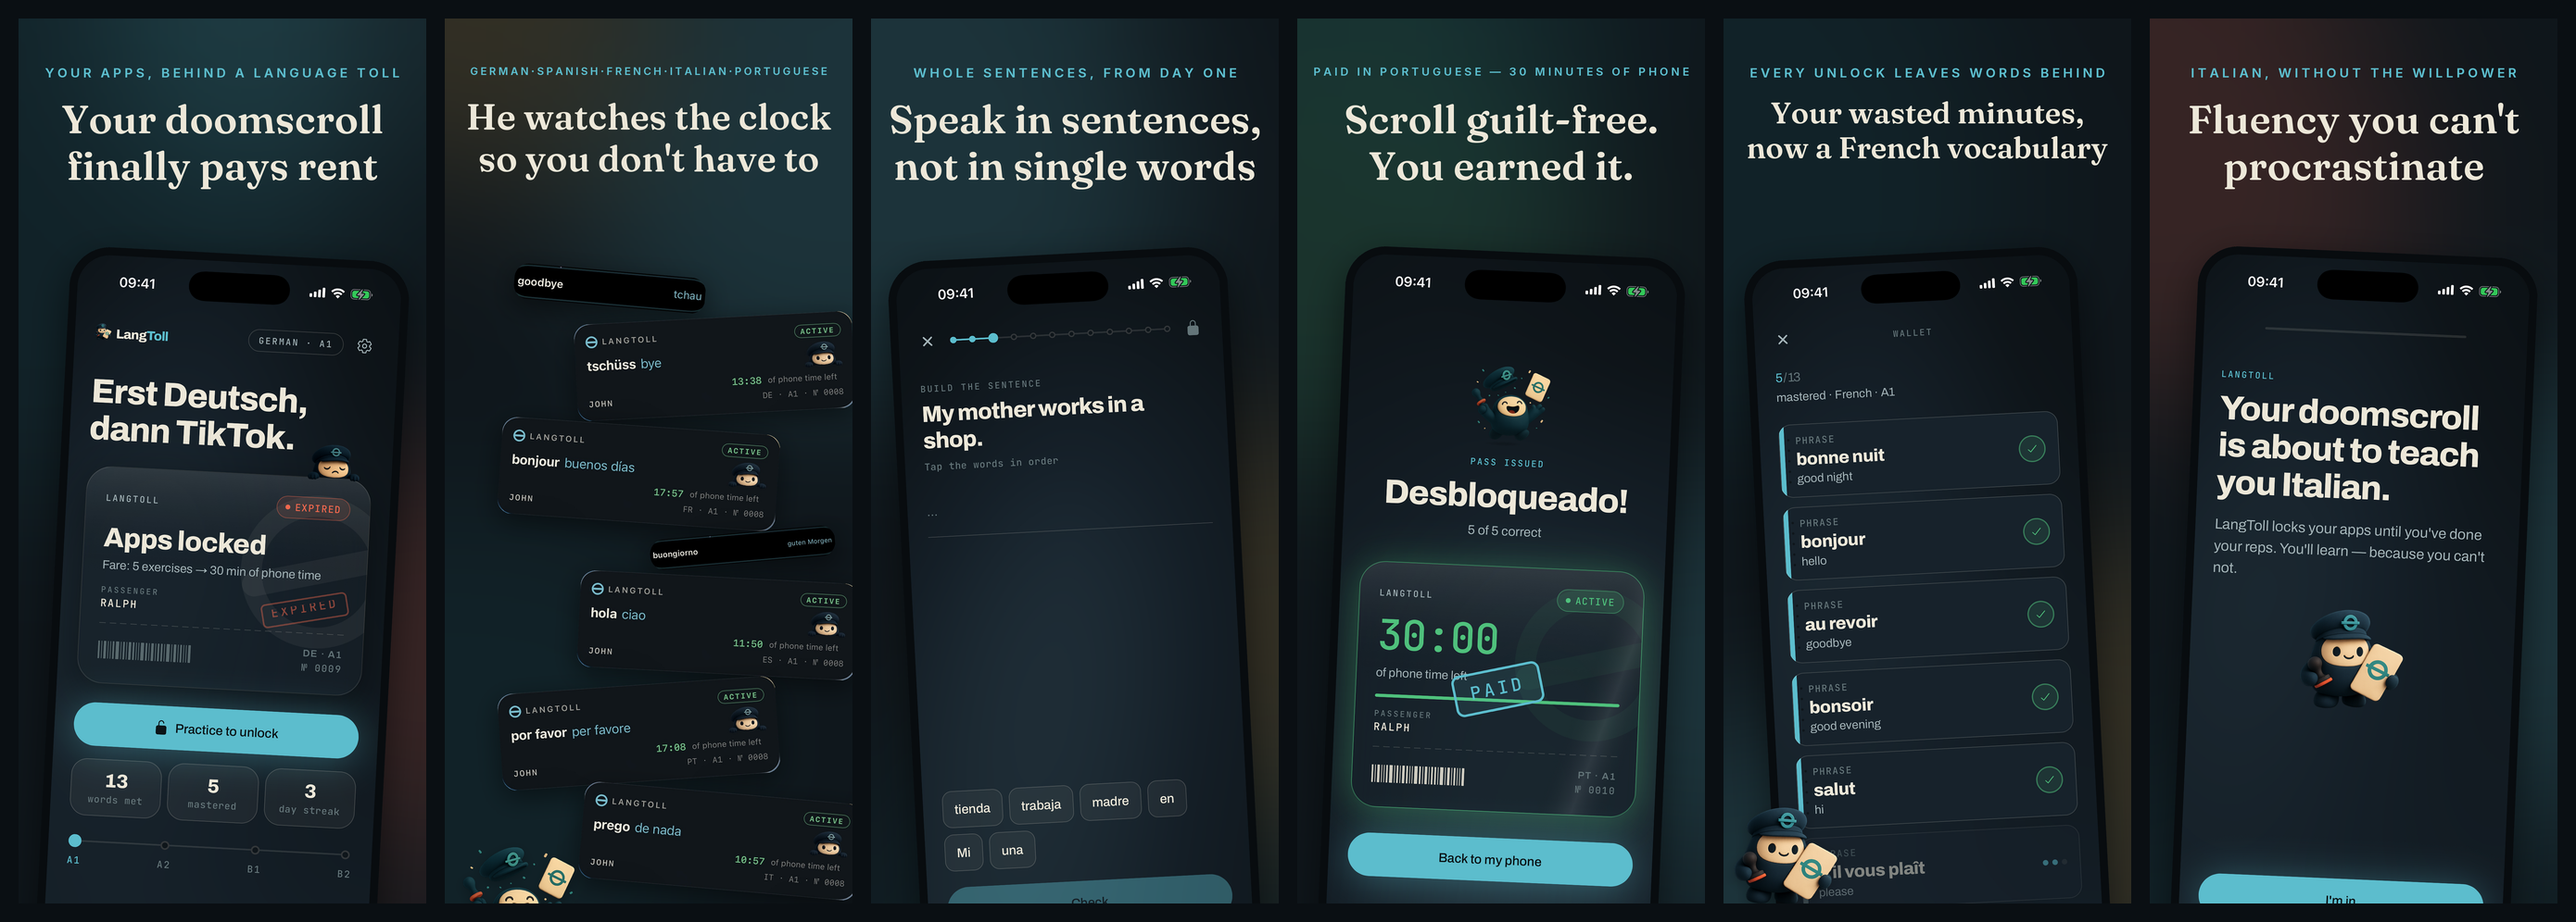
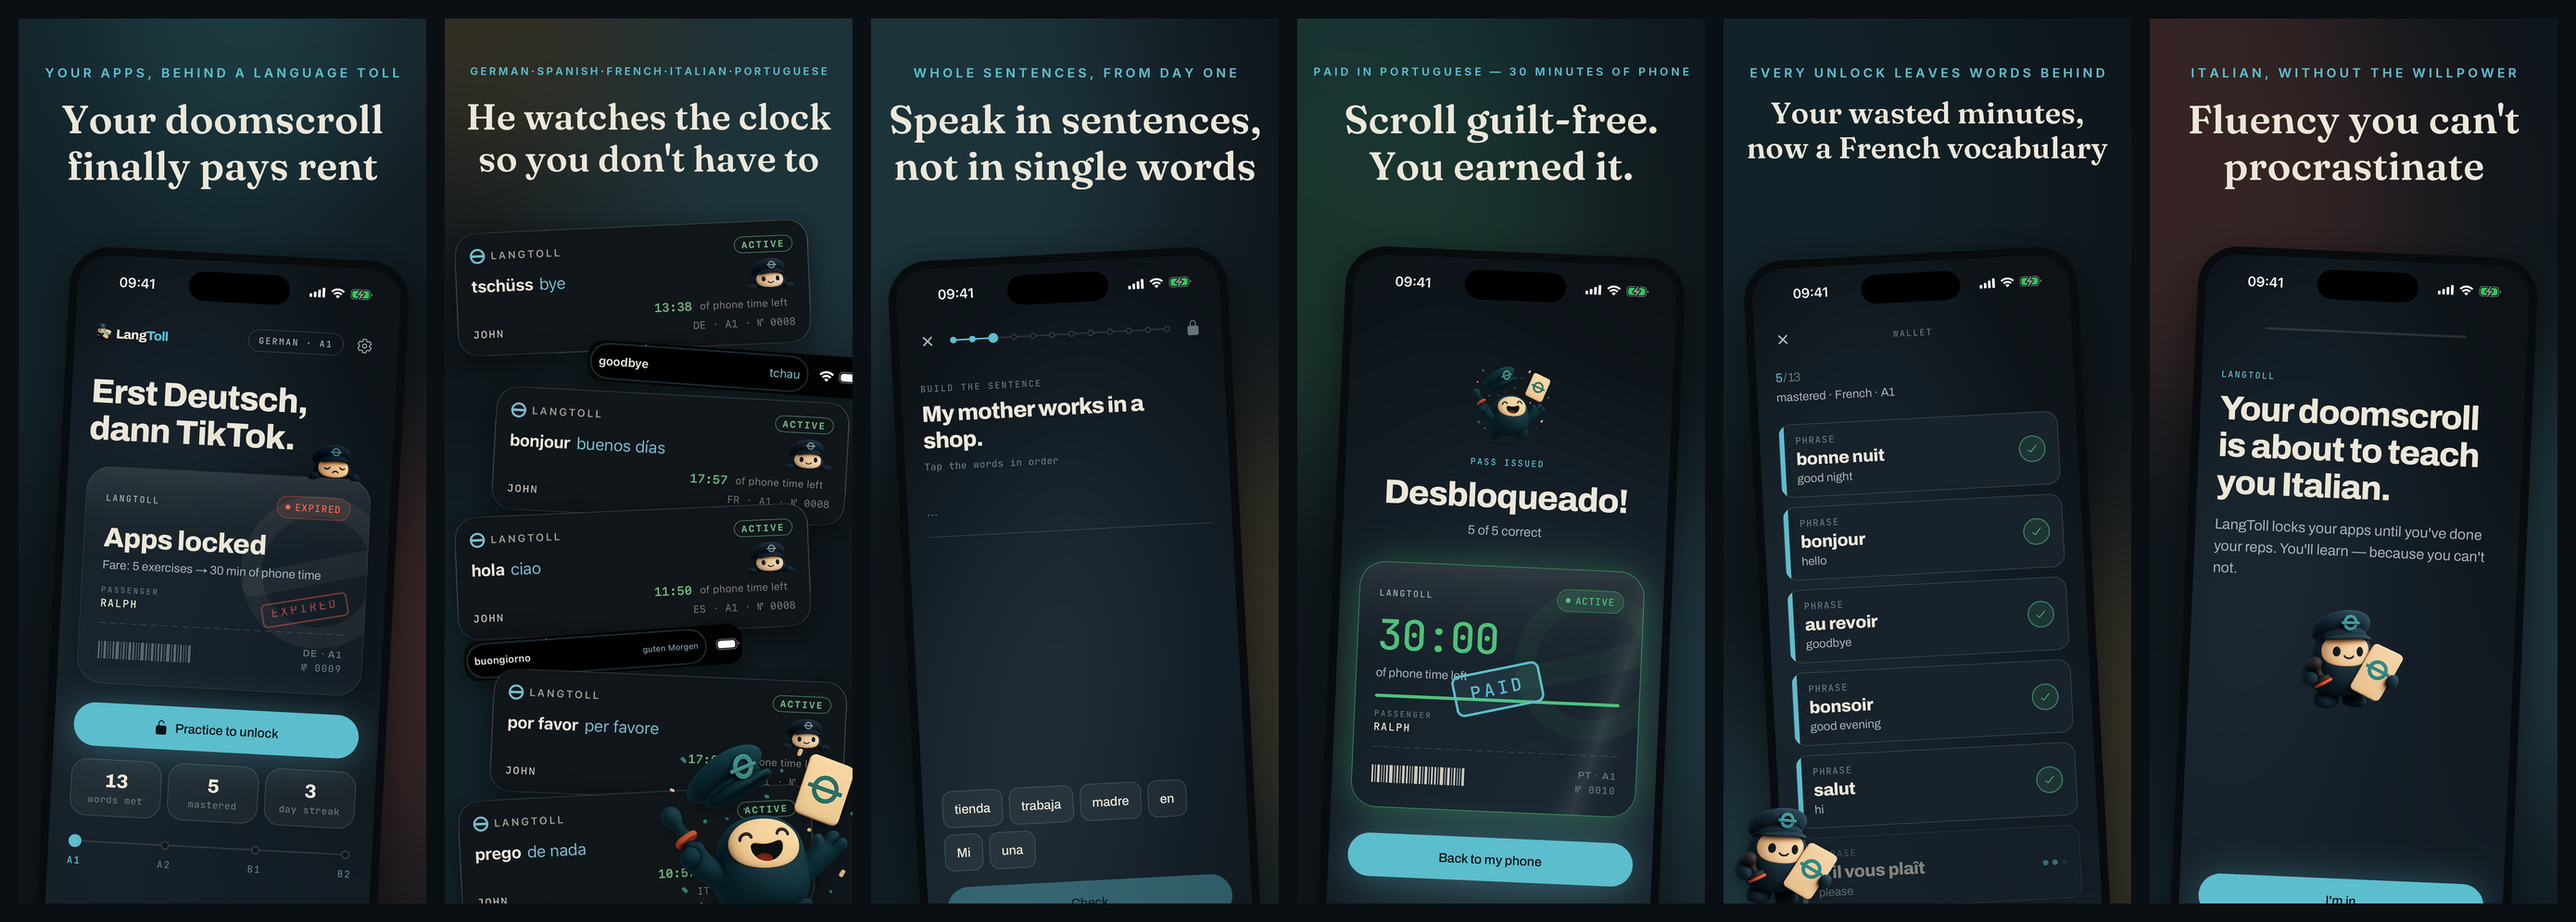
shots: shot 2 rebuilt to the founder's eye — exact cuts, full coverage, Tolly forward
Three corrections from review: banner silhouettes are now traced from each
capture's own card contour (alpha masks, band-limited so the drop shadow and
wallpaper can't leak in — no more guessed corner radius, no torn edges);
island pills keep their wifi/battery icons, which are what say 'Dynamic
Island'; and the cascade fills the canvas edge to edge with bleeds cutting
card, never text, while Tolly stands large in front of the stack instead of
hiding at its foot.

Claude-Session: https://claude.ai/code/session_01WH3gWNvxtpgQbCP3L1S9tL

diff --git a/langtoll-mobile/marketing/appstore/store_shots.py b/langtoll-mobile/marketing/appstore/store_shots.py
@@ -146,10 +146,17 @@ def draw_text(canvas: Image.Image, kicker: str, headline: str,
 def strip(path: str, width: int, tilt: float = 0.0, radius: int = 46) -> Image.Image:
     """A wide capture (Dynamic-Island strip, lock-screen banner) as a floating
     card: rounded, shadowed, gently tilted. Same finish as device(), no bezel —
-    these are crops of a real phone surface, not full screens."""
-    raw = Image.open(path).convert("RGB")
-    img = raw.resize((width, int(raw.height * width / raw.width)), Image.LANCZOS)
-    card = rounded(img, radius=radius)
+    these are crops of a real phone surface, not full screens.
+
+    RGBA sources carry their own EXACT silhouette (alpha traced from the
+    capture's card contour) and are used as-is; RGB sources get the generic
+    rounding."""
+    raw = Image.open(path)
+    if raw.mode == "RGBA":
+        card = raw.resize((width, int(raw.height * width / raw.width)), Image.LANCZOS)
+    else:
+        img = raw.convert("RGB").resize((width, int(raw.height * width / raw.width)), Image.LANCZOS)
+        card = rounded(img, radius=radius)
     shadowed = with_shadow(card, blur=40, alpha=120, dy=24)
     if tilt:
         shadowed = shadowed.rotate(tilt, expand=True, resample=Image.BICUBIC)
@@ -234,15 +241,15 @@ SHOTS = [
         # self-labelling its course (DE/FR/ES/PT/IT in the ticket footer).
         # Pairs deliberately cross languages: source AND target vary.
         "strips": [
-            {"path": "raw/raw_island_goodbye_tchau_tight.jpg", "w": 620, "tilt": -5.0, "x": 90, "y": 660},
-            {"path": "raw/raw_lockscreen_tschuess_tight.jpg", "w": 900, "tilt": 3.0, "x": 290, "y": 820},
-            {"path": "raw/raw_lock_bonjour_buenosdias_tight.jpg", "w": 900, "tilt": -4.0, "x": 40, "y": 1160},
-            {"path": "raw/raw_island_buongiorno_tight.jpg", "w": 600, "tilt": 5.0, "x": 530, "y": 1510},
-            {"path": "raw/raw_lock_hola_ciao_tight.jpg", "w": 900, "tilt": -3.0, "x": 300, "y": 1660},
-            {"path": "raw/raw_lock_porfavor_perfavore_tight.jpg", "w": 900, "tilt": 4.0, "x": 40, "y": 2000},
-            {"path": "raw/raw_lock_prego_denada_tight.jpg", "w": 900, "tilt": -5.0, "x": 300, "y": 2340},
+            {"path": "raw/raw_lockscreen_tschuess_exact.png", "w": 1150, "tilt": 2.5, "x": -100, "y": 520},
+            {"path": "raw/raw_island_goodbye_tchau_full.jpg", "w": 900, "tilt": -4.0, "x": 330, "y": 910},
+            {"path": "raw/raw_lock_bonjour_buenosdias_exact.png", "w": 1150, "tilt": -3.0, "x": 20, "y": 1060},
+            {"path": "raw/raw_lock_hola_ciao_exact.png", "w": 1150, "tilt": 2.5, "x": -100, "y": 1440},
+            {"path": "raw/raw_island_buongiorno_full.jpg", "w": 900, "tilt": 4.0, "x": -70, "y": 1830},
+            {"path": "raw/raw_lock_porfavor_perfavore_exact.png", "w": 1150, "tilt": -2.5, "x": 15, "y": 1975},
+            {"path": "raw/raw_lock_prego_denada_exact.png", "w": 1150, "tilt": 3.0, "x": -90, "y": 2350},
         ],
-        "tollys": [{"name": "tolly-celebrate", "w": 360, "x": 0, "y": 2620, "tilt": -4.0}],
+        "tollys": [{"name": "tolly-celebrate", "w": 640, "x": 640, "y": 2270, "tilt": 3.0}],
     },
     {
         # The fare: a rep is BUILDING a real sentence from word tiles — not matching\n        # a word to its translation. The caption must never promise more than the\n        # screen proves (an early cut said "order dinner" over a "the coffee" drill).
